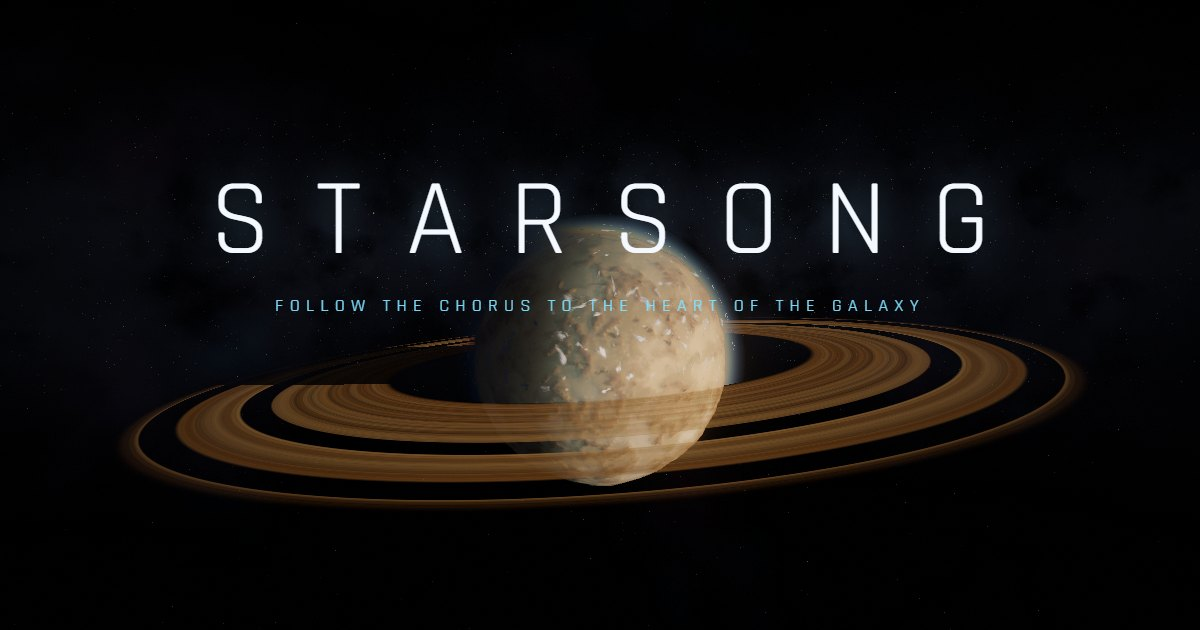
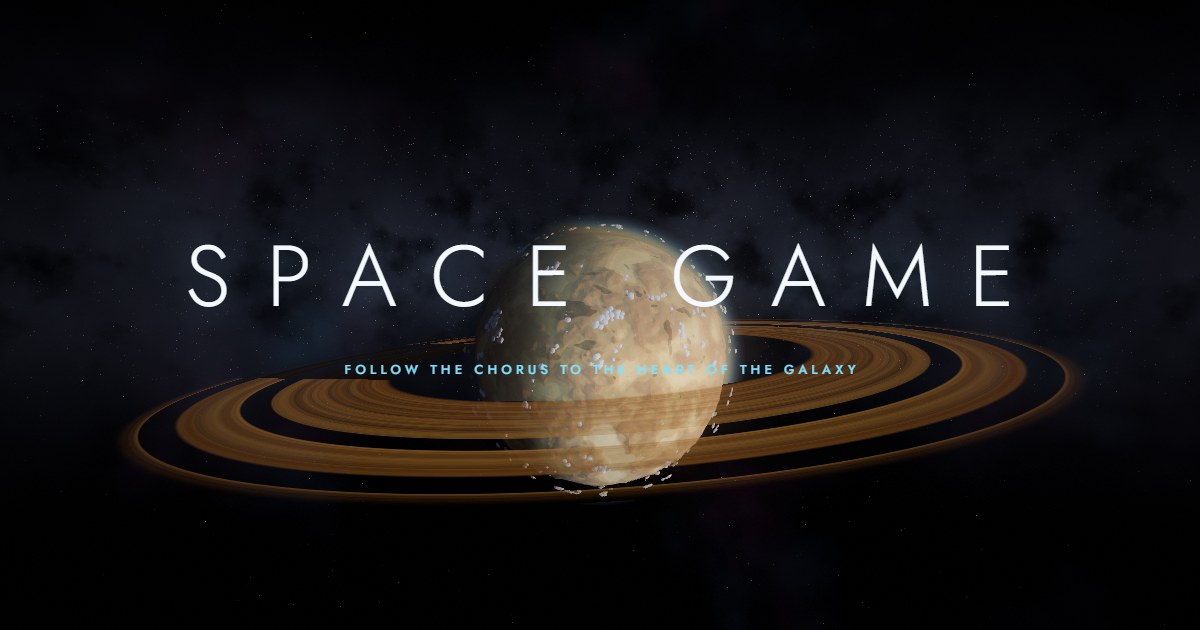
Rename game

Changed region(s): [[0.1233, 0.2714, 0.8633, 0.8143]]

diff --git a/index.html b/index.html
@@ -5,7 +5,7 @@
     <!-- viewport-fit lets the game draw under notches (the HUD keeps to the safe
          area), and no zoom stops iOS zooming in when the seed box gets focus -->
     <meta name="viewport" content="width=device-width, initial-scale=1.0, maximum-scale=1, user-scalable=no, viewport-fit=cover" />
-    <title>Starsong | Procedural Space Exploration Game in the Browser</title>
+    <title>Space Game | Procedural Space Exploration in the Browser</title>
     <meta name="description" content="A free space exploration game for the browser. Land on procedural planets, fly between them without loading screens and warp across 24,000 star systems." />
     <link rel="canonical" href="https://spacegame.jarvisar.com/" />
     <meta name="theme-color" content="#000000" />
@@ -16,21 +16,21 @@
     <link rel="manifest" href="/manifest.webmanifest" />
 
     <meta property="og:type" content="website" />
-    <meta property="og:site_name" content="Starsong" />
-    <meta property="og:title" content="Starsong | Procedural Space Exploration Game" />
+    <meta property="og:site_name" content="Space Game" />
+    <meta property="og:title" content="Space Game | Procedural Space Exploration" />
     <meta property="og:description" content="A free space exploration game for the browser. Land on procedural planets, fly between them without loading screens and warp across 24,000 star systems." />
     <meta property="og:url" content="https://spacegame.jarvisar.com/" />
     <meta property="og:image" content="https://spacegame.jarvisar.com/og-image.jpg" />
     <meta property="og:image:width" content="1200" />
     <meta property="og:image:height" content="630" />
-    <meta property="og:image:alt" content="Starsong title screen with a ringed planet" />
+    <meta property="og:image:alt" content="Space Game title screen with a ringed planet" />
     <meta name="twitter:card" content="summary_large_image" />
 
     <script type="application/ld+json">
       {
         "@context": "https://schema.org",
         "@type": "VideoGame",
-        "name": "Starsong",
+        "name": "Space Game",
         "url": "https://spacegame.jarvisar.com/",
         "description": "A free space exploration game for the browser. Land on procedural planets, fly between them without loading screens and warp across 24,000 star systems.",
         "image": "https://spacegame.jarvisar.com/og-image.jpg",
@@ -103,7 +103,7 @@
         animation: boot-in 0.8s 0.1s both;
       }
       .boot-name {
-        font-size: clamp(34px, 9vw, 120px);
+        font-size: clamp(26px, 7.2vw, 100px);
         font-weight: 300;
         letter-spacing: 0.42em;
         margin-right: -0.42em;
@@ -167,7 +167,7 @@
           margin-top: calc(-6vh / 1.25);
         }
         .boot-name {
-          font-size: clamp(34px, calc(9vw / 1.25), 120px);
+          font-size: clamp(26px, calc(7.2vw / 1.25), 100px);
         }
       }
       @media (min-width: 3200px) and (min-height: 1800px) {
@@ -176,7 +176,7 @@
           margin-top: calc(-6vh / 1.5);
         }
         .boot-name {
-          font-size: clamp(34px, calc(9vw / 1.5), 120px);
+          font-size: clamp(26px, calc(7.2vw / 1.5), 100px);
         }
       }
 
@@ -242,7 +242,7 @@
       {
         "@context": "https://schema.org",
         "@type": "WebSite",
-        "name": "Starsong",
+        "name": "Space Game",
         "url": "https://spacegame.jarvisar.com/"
       }
     </script>
@@ -252,7 +252,7 @@
     <div id="ui"></div>
     <div id="boot" aria-hidden="true">
       <div class="boot-inner">
-        <div class="boot-name">STARSONG</div>
+        <div class="boot-name">SPACE GAME</div>
         <div class="boot-load">
           <div class="boot-bar"><i></i></div>
           <div class="boot-label">Loading</div>
@@ -261,7 +261,7 @@
     </div>
     <!-- Readable without JavaScript or WebGL. Hidden once the game starts. -->
     <main id="about">
-      <h1>Starsong</h1>
+      <h1>Space Game</h1>
       <p>A free space exploration game for the browser. Land on procedural planets, fly between them without loading screens and follow a signal across a galaxy of 24,000 star systems toward its core.</p>
       <p>Needs a browser with WebGL2. Plays with a mouse and keyboard or with touch.</p>
       <noscript><p>JavaScript is turned off, so the game can't start.</p></noscript>

diff --git a/src/game/Game.js b/src/game/Game.js
@@ -49,6 +49,7 @@ const _v = new THREE.Vector3();
 const _v2 = new THREE.Vector3();
 const _q = new THREE.Quaternion();
 
+// old name like the save key, renaming it would reset everyone's settings
 const SETTINGS_KEY = 'starsong-settings';
 
 // photo mode looks, cycled with V. The first one is the normal game grade.
@@ -1121,7 +1122,7 @@ export class Game {
   // preserveDrawingBuffer is needed
   savePhoto() {
     const body = this.system.focus;
-    const name = `starsong-${this.systemDef.name}${body ? '-' + body.def.name : ''}`.replace(/[^\w-]+/g, '-').toLowerCase();
+    const name = `space-game-${this.systemDef.name}${body ? '-' + body.def.name : ''}`.replace(/[^\w-]+/g, '-').toLowerCase();
     this.renderer.domElement.toBlob((blob) => {
       if (!blob) return;
       const download = () => {

diff --git a/src/sw.js b/src/sw.js
@@ -1,7 +1,7 @@
 // Service worker for the production build. vite.config.js copies this to
 // dist/sw.js and puts VERSION and FILES (the build output to cache) above it.
 
-const CACHE = `starsong-${VERSION}`;
+const CACHE = `space-game-${VERSION}`;
 
 self.addEventListener('install', (e) => {
   // Revalidate instead of trusting the HTTP cache. GitHub Pages sends
@@ -13,7 +13,8 @@ self.addEventListener('install', (e) => {
 });
 
 self.addEventListener('activate', (e) => {
-  const old = (k) => k.startsWith('starsong-') && k !== CACHE;
+  // starsong- is what the caches were called before the rename
+  const old = (k) => (k.startsWith('space-game-') || k.startsWith('starsong-')) && k !== CACHE;
   e.waitUntil(
     caches
       .keys()

diff --git a/src/ui/menus.js b/src/ui/menus.js
@@ -77,7 +77,7 @@ export class Menus {
   buildTitle() {
     const t = el('div', 'screen title-screen', this.root);
     const inner = el('div', 'title-inner', t);
-    el('div', 'title-name', inner, 'STARSONG');
+    el('div', 'title-name', inner, 'SPACE GAME');
     const btns = el('div', 'title-buttons', inner);
     this.btnContinue = el('button', 'btn primary', btns, 'Continue');
     this.btnNew = el('button', 'btn', btns, 'New Game');

diff --git a/vite.config.js b/vite.config.js
@@ -13,7 +13,7 @@ const NO_CACHE = [/^sw\.js$/, /^screenshots\//, /^icons\//, /^og-image\./, /^rob
 function serviceWorker() {
   let root, outDir;
   return {
-    name: 'starsong-service-worker',
+    name: 'space-game-service-worker',
     apply: 'build',
     configResolved(config) {
       root = config.root;

diff --git a/src/ui/menus.css b/src/ui/menus.css
@@ -185,7 +185,7 @@
   margin-top: calc(-6vh / var(--z));
 }
 .title-name {
-  font-size: clamp(34px, calc(9vw / var(--z)), 120px);
+  font-size: clamp(26px, calc(7.2vw / var(--z)), 100px);
   font-weight: 300;
   letter-spacing: 0.42em;
   margin-right: -0.42em;

diff --git a/src/game/state.js b/src/game/state.js
@@ -1,5 +1,6 @@
 import { RESOURCES } from './resources.js';
 
+// the game's old name, kept so existing saves still load
 const SAVE_KEY = 'starsong-save-v1';
 
 // Everything that persists between sessions. Plain data only so it can go

diff --git a/README.md b/README.md
@@ -1,4 +1,4 @@
-# Starsong
+# Space Game
 
 A procedural space exploration game for the browser, built with Three.js. Land on low poly planets, fly between them without loading screens, and follow a signal across a galaxy of 24,000 star systems toward its core.
 
